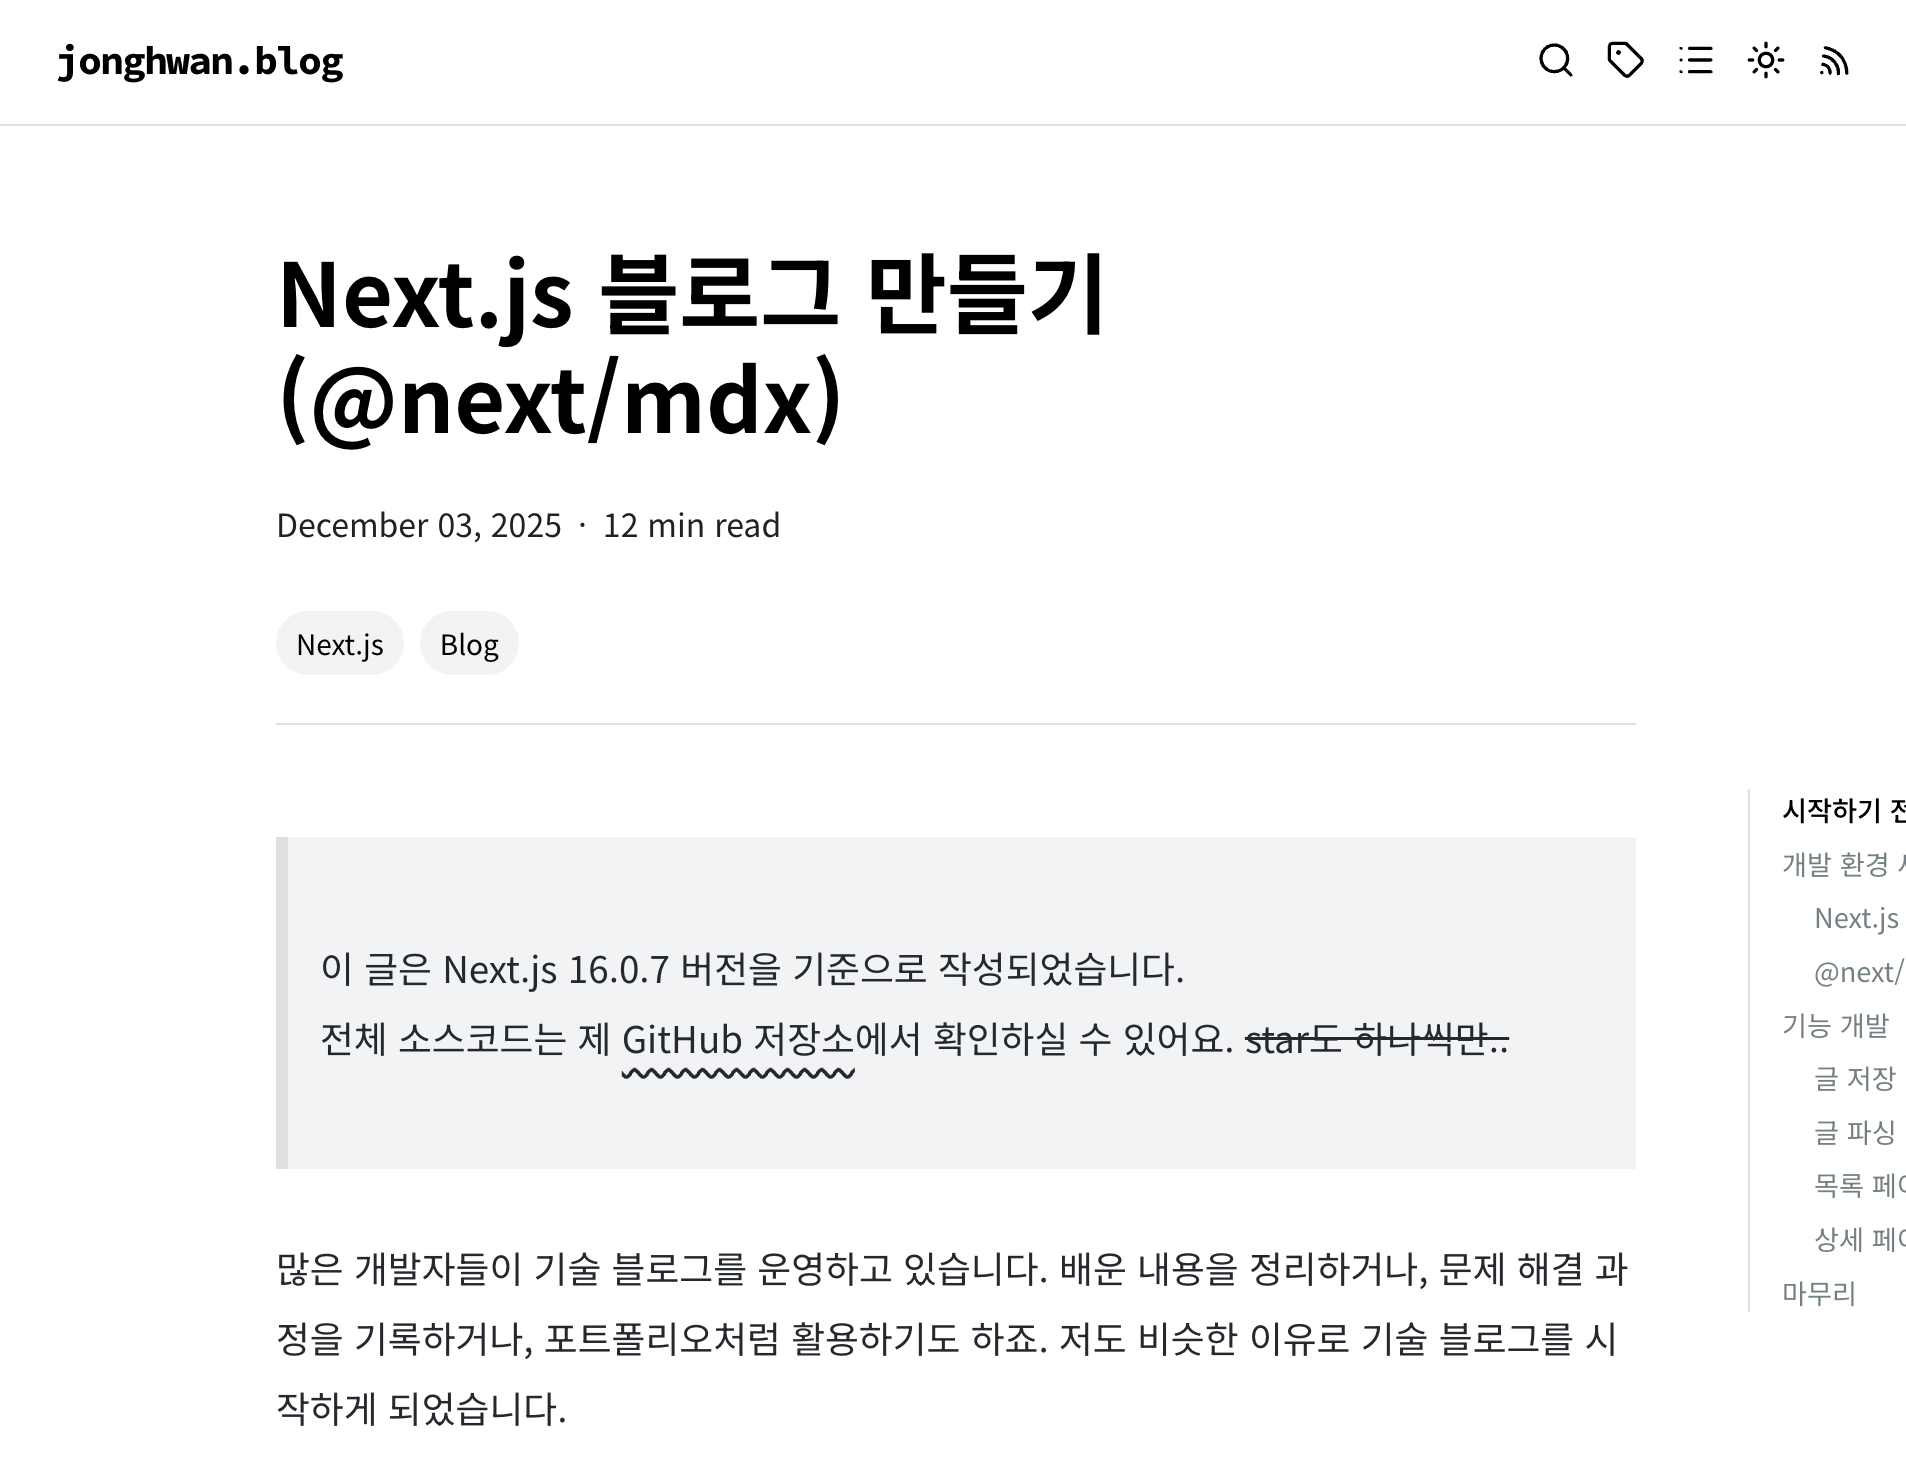
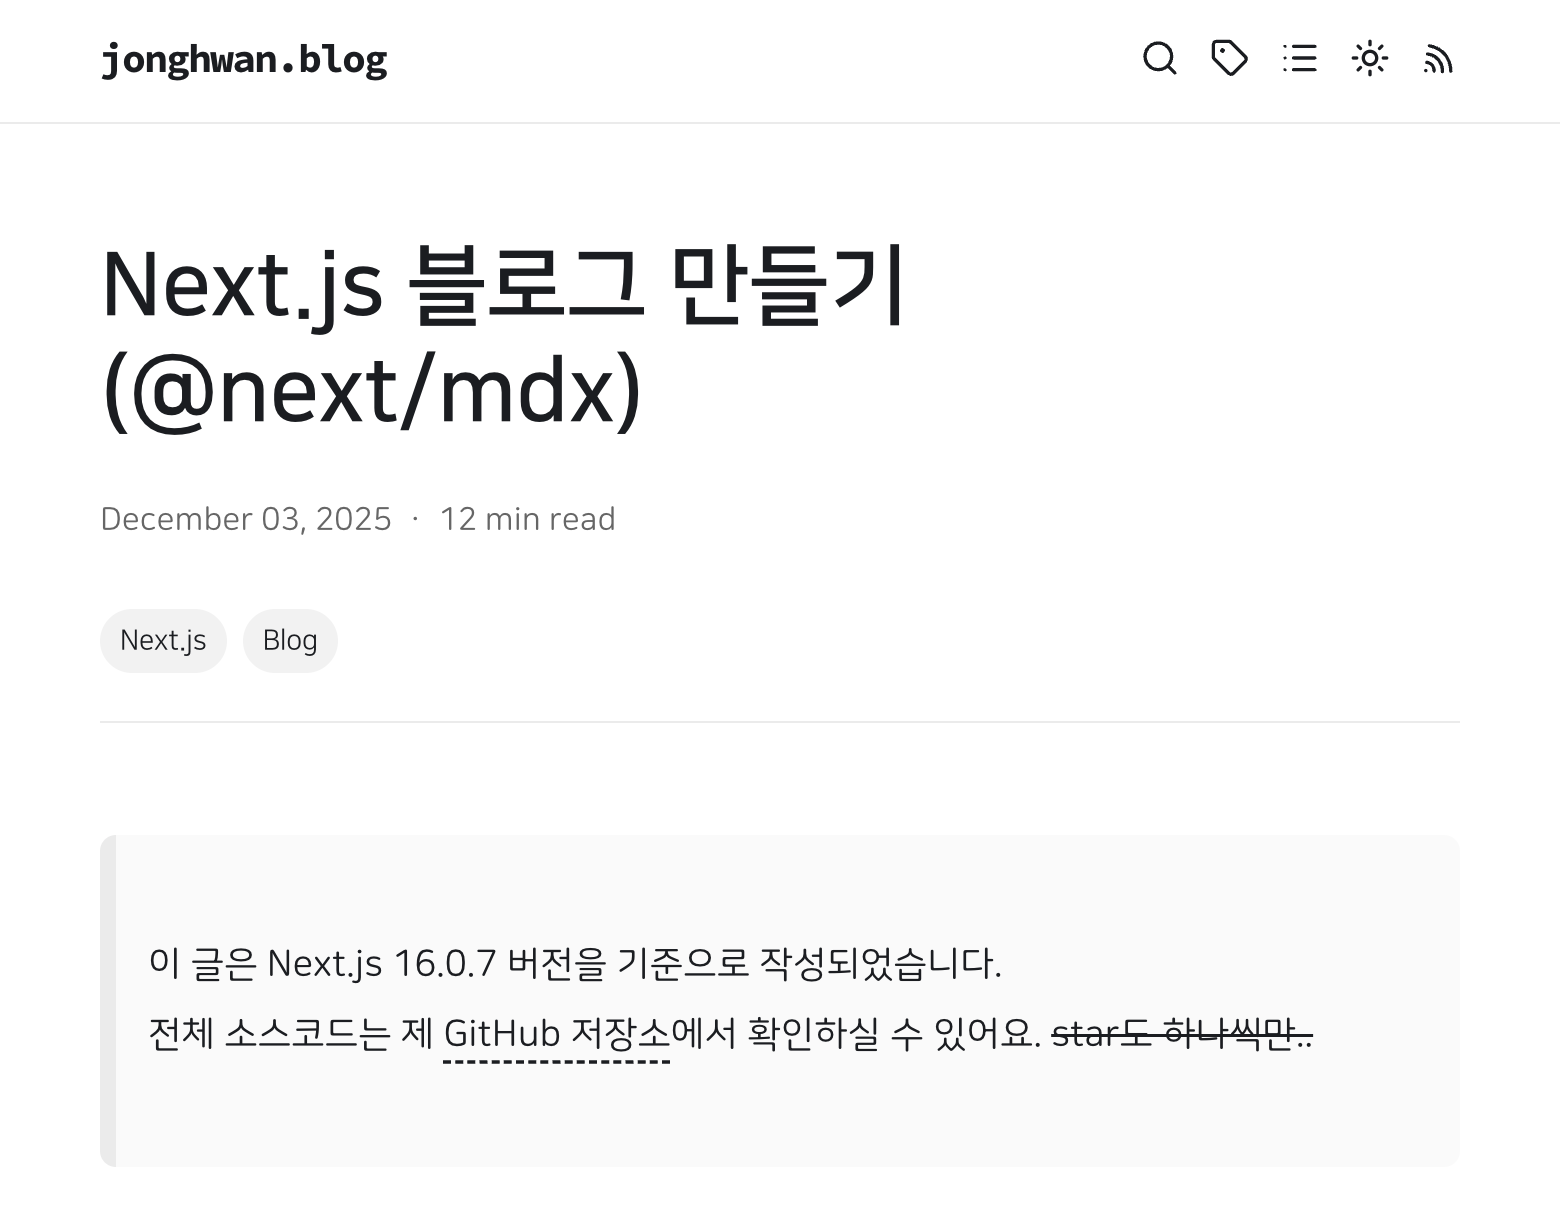
assets: nextjs-blog 포스트 이미지 교체

diff --git a/next.config.ts b/next.config.ts
@@ -16,7 +16,7 @@ const nextConfig: NextConfig = {
 const withMDX = createMDX({
   options: {
     remarkPlugins: ['remark-frontmatter', 'remark-gfm'],
-    rehypePlugins: ['rehype-slug', ['rehype-pretty-code', { theme: 'dark-plus' }]],
+    rehypePlugins: ['rehype-slug', ['rehype-pretty-code', { theme: 'one-dark-pro' }]],
   },
 });
 
